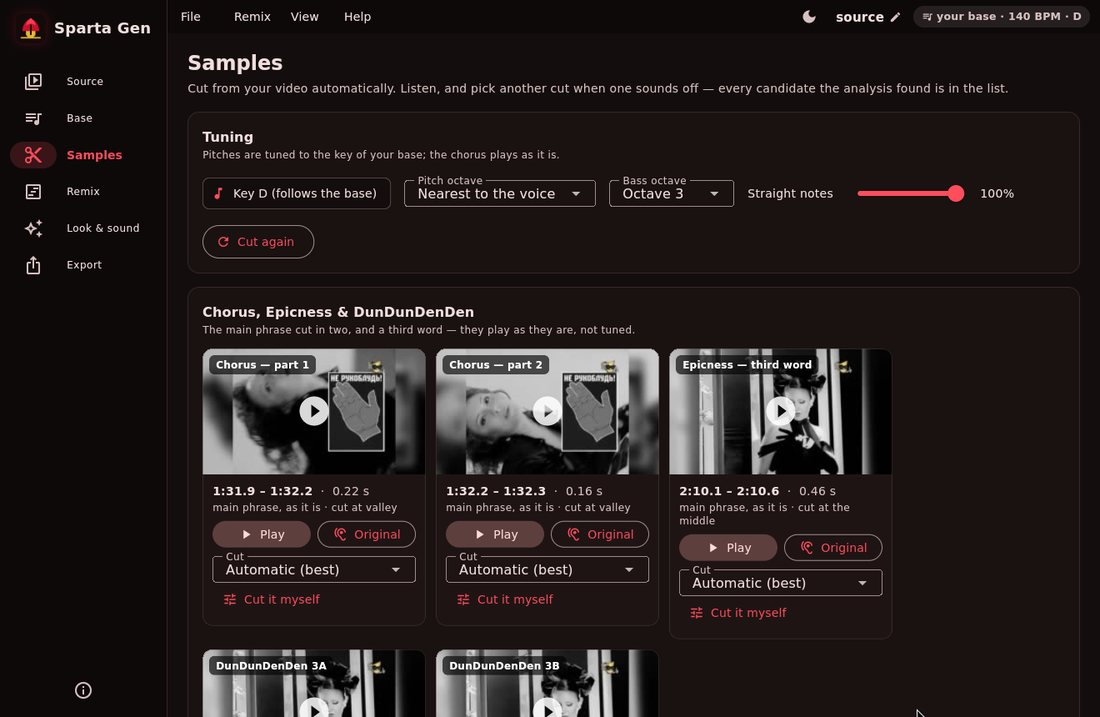
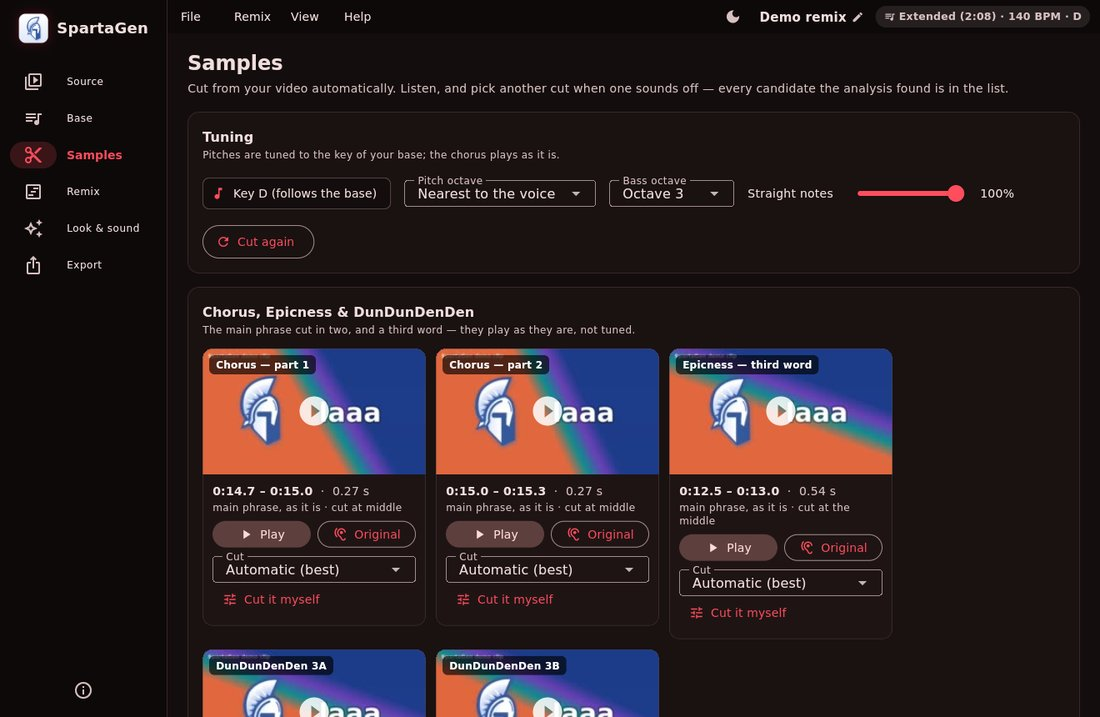
README pictures from a neutral demo instead of a real video
Every screenshot is retaken on a demo project: a synthetic clip (sung
notes, syllables, drums and hiss under the SpartaGen helmet, each sound's
name on screen) on the Extended base template — and a synthetic MIDI base
for the MIDI tab, which replaces the picture of a base's audio file. The
rendered-frames sheet comes from the demo remix too (the old one still
showed the long-removed Epicness caption).

Claude-Session: https://claude.ai/code/session_0154LLx8Zc5DeuZfzgTKFBTM

diff --git a/README.md b/README.md
@@ -144,7 +144,7 @@ the project you worked on last.
   <img src="docs/app-look.jpg" width="49%" alt="Look and sound: styles and effects">
   <img src="docs/app-export.jpg" width="49%" alt="Export: render, watch, save where you want">
 </p>
-<p align="center"><img src="docs/app-base-audio.jpg" width="49%" alt="Your base's audio file: its tempo, key and parts">
+<p align="center"><img src="docs/app-base-midi.jpg" width="49%" alt="A MIDI base: what each channel plays">
   <img src="docs/app-phone.jpg" width="23%" alt="The same app on a phone"></p>
 
 ## Android app
